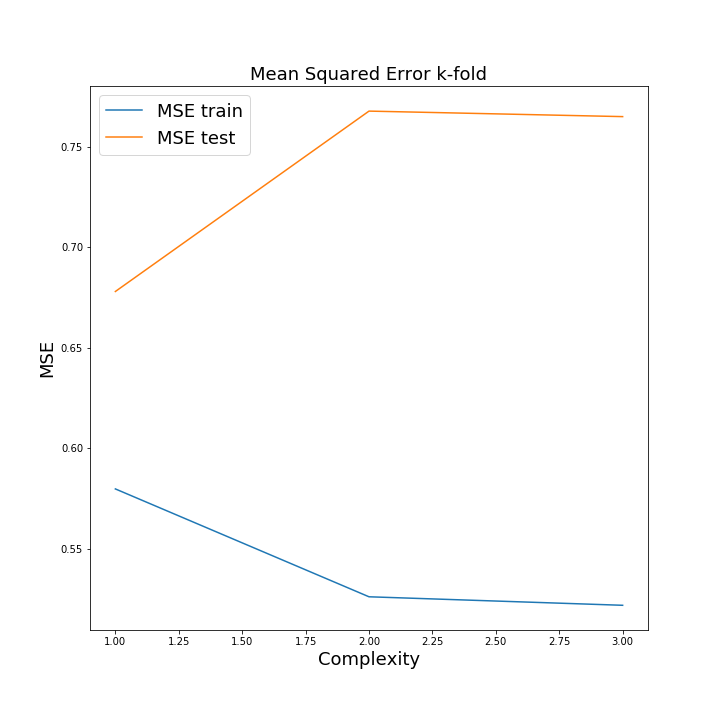
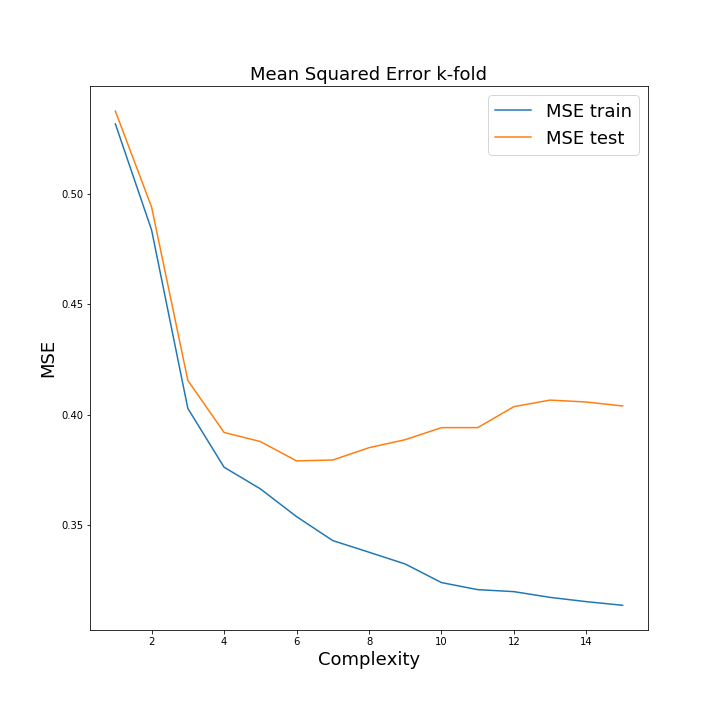
Update on kfold plotting

diff --git a/Project1/ex1.py b/Project1/ex1.py
@@ -51,7 +51,7 @@ def lasso(X, z, lmb):
     reg.fit(X, z)
     return reg.coef_
 
-def var_beta(X): #taking in X = X_train 
+def var_beta(X): #taking in X = X_train
         return np.diag(X.T @ X)
 
 def predict(X, beta):
@@ -93,6 +93,8 @@ def kfold(X,z,k, plot = False): # X = X_train, z = z_train
     mean_r2_test = np.mean(r2_test, axis = 1)
     if plot:
         plot_mse(mean_mse_train, mean_mse_test, method_header = "k-fold")
+
+    return mean_mse_train, mean_r2_train, mean_mse_test, mean_r2_test
 
 def evaluate_method(method, train_test_l, d, scale = True, lmb = False, first_col = True, return_beta = False):
 
@@ -156,9 +158,14 @@ def plot_mse(mse_train, mse_test, method_header = '', plot_complexity = True, la
 
     else:
         if plot_complexity:
-            plt.plot(range(1,degree+1), mse_train, label="MSE train")
-            plt.plot(range(1,degree+1), mse_test, label="MSE test")
-            plt.xlabel("Complexity", fontsize=labelsize)
+            if method_header == "kfold":
+                for i in range(len(complexities)):
+                    plt.plot(range(1,degree+1), mse_test[:,i], label=f"k = {complexities[i]}")
+                plt.xlabel("Complexity", fontsize=labelsize)
+            else:
+                plt.plot(range(1,degree+1), mse_train, label="MSE train")
+                plt.plot(range(1,degree+1), mse_test, label="MSE test")
+                plt.xlabel("Complexity", fontsize=labelsize)
         else:
             plt.plot(n_points, mse_train, label="MSE train")
             plt.plot(n_points, mse_test, label="MSE test")
@@ -218,6 +225,7 @@ r2_train = np.zeros((complex, n_bs))
 
 tts = train_test_split(X,z_noisy,test_size=0.2)
 beta_l = np.zeros(X.shape[1])
+
 for j in range(n_bs): #looping through bootstrap samples
     X_sample, z_sample = bootstrap(tts[0],tts[2])
     tts2 = [X_sample, tts[1], z_sample, tts[3]]
@@ -228,9 +236,8 @@ mean_mse_train = np.mean(mse_train, axis = 1) #calculating mean of MSE of all bo
 mean_mse_test = np.mean(mse_test, axis = 1)
 mean_r2_train = np.mean(r2_train, axis = 1)
 mean_r2_test = np.mean(r2_test, axis = 1)
-
+"""
 #plot_mse(mean_mse_train, mean_mse_test, method_header = "bootstrap")
-
 """
 
 #Bootstrap and plot MSE vs # datapoints
@@ -257,27 +264,63 @@ mean_r2_train_n = np.mean(r2_train_n, axis = 1)
 mean_r2_test_n = np.mean(r2_test_n, axis = 1)
 
 plot_mse(mean_mse_train_n, mean_mse_test_n, method_header = "bootstrap", plot_complexity = False)
-"""
+
 
 
 #Exercise 3, K-fold
-kfold(X, z_noisy, 5, plot = True)
+k = np.arange(5,11)
+mse_train_kfold = np.zeros((complex, len(k)))
+mse_test_kfold = np.zeros((complex, len(k)))
+r2_train_kfold = np.zeros((complex, len(k)))
+r2_test_kfold = np.zeros((complex, len(k)))
 
-nlambdas = 15
-lambdas_values = np.logspace(-4,0.5,nlambdas) #[0.001, 0.005, 0.01, 0.05, 0.1, 0.5, 0.75, 1]
+for i in range(len(k)):
+    mse_train_kfold[:,i], r2_train_kfold[:,i], mse_test_kfold[:,i], r2_test_kfold[:,i] = kfold(X, z_noisy, k[i])
+
+plot_mse(mse_train_kfold, mse_test_kfold, method_header = "kfold", complexities = k)
+"""
+#Exercise 4, Ridge
+nlambda = 15
+lambda_values = np.logspace(-4,0.5,nlambda) #[0.001, 0.005, 0.01, 0.05, 0.1, 0.5, 0.75, 1]
+mse_test_ridge = np.zeros((len(compl), len(lambda_values)))
+mse_train_ridge = np.zeros((len(compl), len(lambda_values)))
+r2_test_ridge = np.zeros((len(compl), len(lambda_values)))
+r2_train_ridge = np.zeros((len(compl), len(lambda_values)))
+
+for j in range(n_bs): #looping through bootstrap samples
+    X_sample, z_sample = bootstrap(tts[0],tts[2])
+    tts2 = [X_sample, tts[1], z_sample, tts[3]]
+    for i in range(complex): #looping through complexity of model
+        mse_train_ridge[i,j], r2_train_ridge[i,j], mse_test_ridge[i,j], r2_test_ridge[i,j] = evaluate_method(ridge, tts2, scale = True, d = i+1)
+
+mean_mse_train = np.mean(mse_train, axis = 1) #calculating mean of MSE of all bootstrap samples
+mean_mse_test = np.mean(mse_test, axis = 1)
+mean_r2_train = np.mean(r2_train, axis = 1)
+mean_r2_test = np.mean(r2_test, axis = 1)
+"""
+
+
+
+
+
+
+
+#Exercise 5, Lasso
+nlambda = 15
+lambda_values = np.logspace(-4,0.5,nlambda) #[0.001, 0.005, 0.01, 0.05, 0.1, 0.5, 0.75, 1]
 compl = [2,3,4,5,6,7,8]
-mse_test_lasso = np.zeros((len(compl), len(lambdas_values)))
-mse_train_lasso = np.zeros((len(compl), len(lambdas_values)))
-r2_test_lasso = np.zeros((len(compl), len(lambdas_values)))
-r2_train_lasso = np.zeros((len(compl), len(lambdas_values)))
+mse_test_lasso = np.zeros((len(compl), len(lambda_values)))
+mse_train_lasso = np.zeros((len(compl), len(lambda_values)))
+r2_test_lasso = np.zeros((len(compl), len(lambda_values)))
+r2_train_lasso = np.zeros((len(compl), len(lambda_values)))
 
 
 for i in range(len(compl)):
-    for j in range(len(lambdas_values)):
+    for j in range(len(lambda_values)):
         mse_train_lasso[i,j], r2_train_lasso[i,j], mse_test_lasso[i,j], r2_test_lasso[i,j] = evaluate_method(lasso,
-        tts, lmb = lambdas_values[j], d=compl[i], scale = False)
+        tts, lmb = lambda_values[j], d=compl[i], scale = False)
 
-#plot_mse(mse_train_lasso, mse_test_lasso, method_header = 'lasso', plot_complexity = True, lambdas = lambdas_values, complexities = compl)
+#plot_mse(mse_train_lasso, mse_test_lasso, method_header = 'lasso', plot_complexity = True, lambdas = lambda_values, complexities = compl)
 
 
 from imageio import imread

diff --git a/Project1/ex1_terrain.py b/Project1/ex1_terrain.py
@@ -201,6 +201,7 @@ r2_test = np.zeros((complex, n_bs))
 r2_train = np.zeros((complex, n_bs))
 
 #Bootstrap and plotting MSE vs complexity
+"""
 print("Starting bootstrap")
 for j in range(n_bs): #looping through bootstrap samples
     X_sample, z_sample = bootstrap(tts[0],tts[2]) #using the same X_train and z_train data for each bootstrap
@@ -221,7 +222,7 @@ del mean_mse_train, mean_mse_test, mean_r2_train, mean_r2_test
 #Exercise 3, K-fold
 print("Starting kfold")
 kfold(X, z, 5, plot = True)
-
+"""
 nlambdas = 15
 lambdas_values = np.logspace(-4,0.5, nlambdas) #[0.001, 0.005, 0.01, 0.05, 0.1, 0.5, 0.75, 1]
 compl = [2,3,4,5,6,7,8]
@@ -235,7 +236,7 @@ for i in range(len(compl)):
     print(f"We are at complexity: {compl[i]}")
     for j in range(len(lambdas_values)):
         mse_train_lasso[i,j], r2_train_lasso[i,j], mse_test_lasso[i,j], r2_test_lasso[i,j] = evaluate_method(lasso,
-        tts, lmb = lambdas_values[j], d=compl[i], scale = True)
+        tts, lmb = lambdas_values[j], d=compl[i], scale = False)
 
 plot_mse(mse_train_lasso, mse_test_lasso, method_header = 'lasso', plot_complexity = True, lambdas = lambdas_values, complexities = compl)
 del mse_test_lasso, mse_train_lasso, r2_test_lasso, r2_train_lasso
